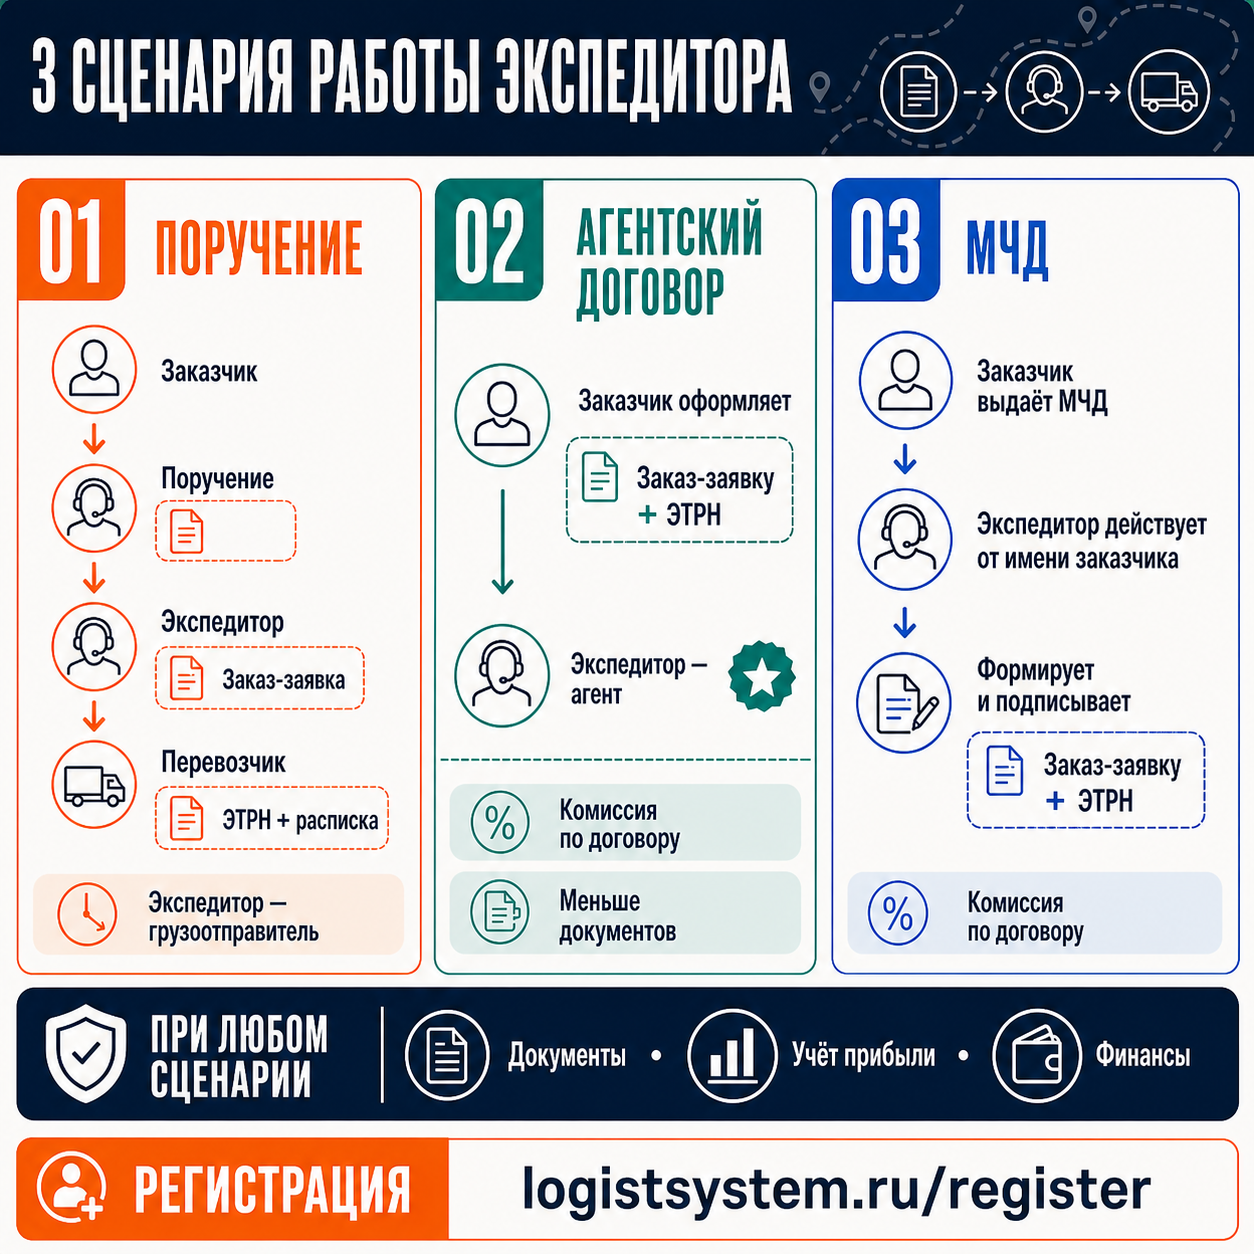
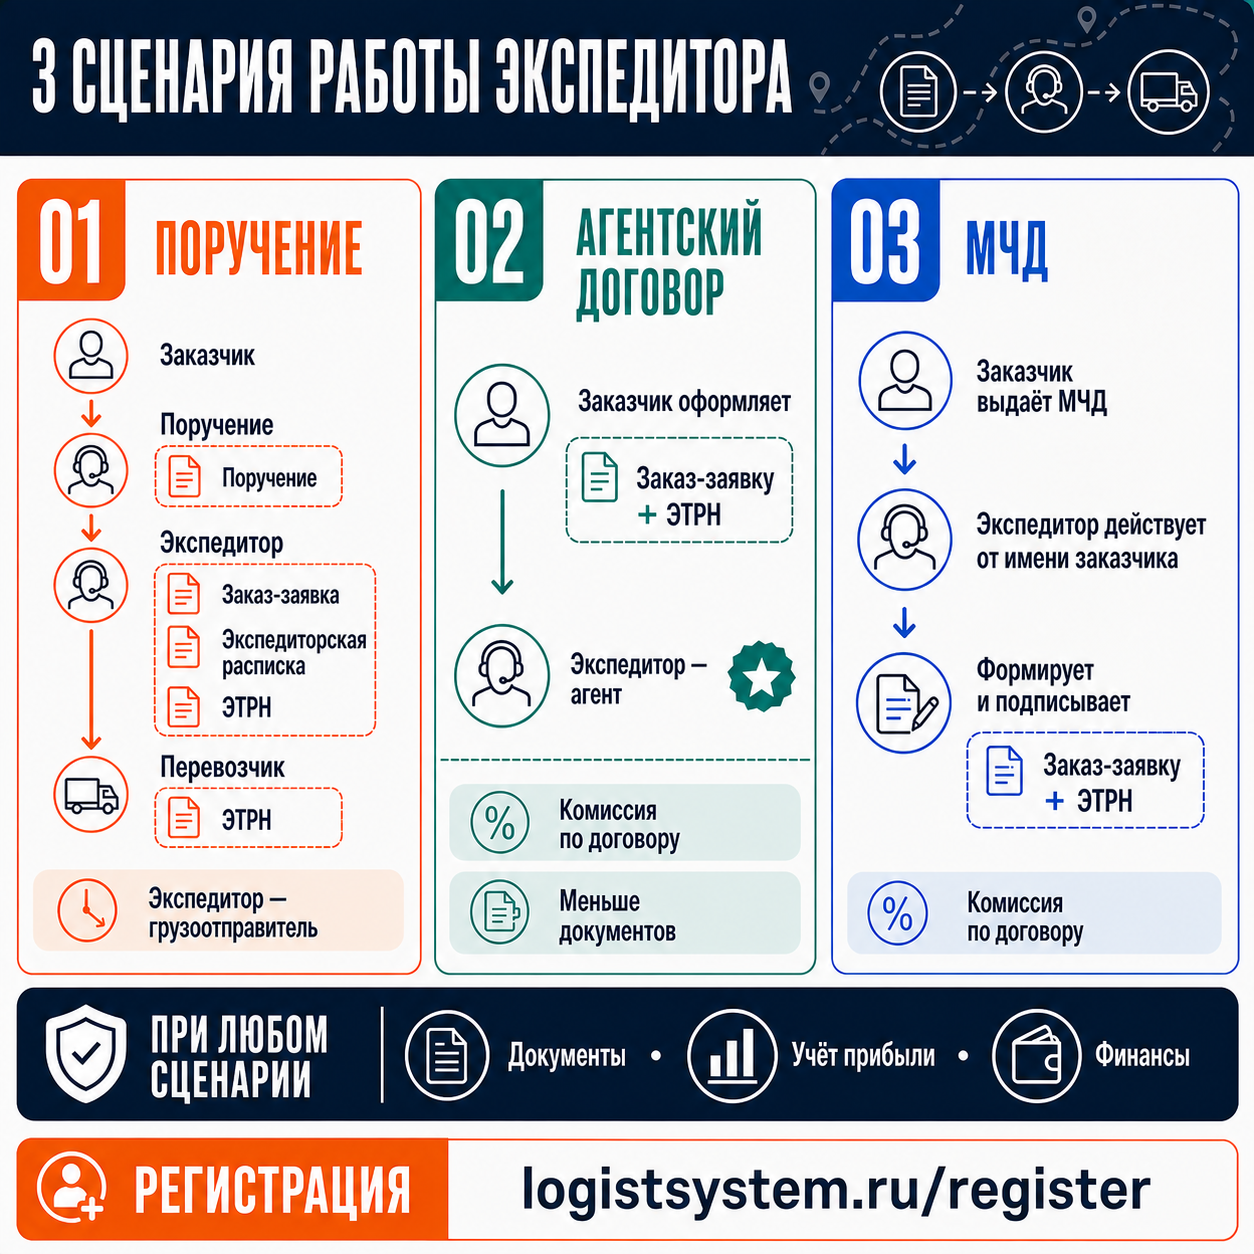
deploy: update

diff --git a/public/css/app/filament-admin.css b/public/css/app/filament-admin.css
@@ -62,10 +62,13 @@
 }
 
 /* Редактор блога: визуальная модель журнальной статьи. */
+.blog-article-editor.fi-fo-rich-editor .fi-fo-rich-editor-toolbar,
 .blog-article-editor .fi-fo-rich-editor-toolbar {
-    position: sticky;
+    position: sticky !important;
     top: 0;
-    z-index: 2;
+    z-index: 30;
+    background: #fff;
+    box-shadow: 0 6px 16px -14px rgb(15 23 42 / 55%);
 }
 
 .blog-article-editor .fi-fo-rich-editor-content {

diff --git a/resources/css/filament-admin.css b/resources/css/filament-admin.css
@@ -62,10 +62,13 @@
 }
 
 /* Редактор блога: визуальная модель журнальной статьи. */
+.blog-article-editor.fi-fo-rich-editor .fi-fo-rich-editor-toolbar,
 .blog-article-editor .fi-fo-rich-editor-toolbar {
-    position: sticky;
+    position: sticky !important;
     top: 0;
-    z-index: 2;
+    z-index: 30;
+    background: #fff;
+    box-shadow: 0 6px 16px -14px rgb(15 23 42 / 55%);
 }
 
 .blog-article-editor .fi-fo-rich-editor-content {

diff --git a/resources/css/landing.css b/resources/css/landing.css
@@ -2536,7 +2536,7 @@ body {
     margin: 0;
     width: 100%;
     min-width: 0;
-    grid-column: 1;
+    grid-column: 1 / -1;
     justify-self: stretch;
     border-radius: 18px;
     overflow: hidden;

diff --git a/app/Support/BlogBodyImages.php b/app/Support/BlogBodyImages.php
@@ -1,0 +1,107 @@
+<?php
+
+namespace App\Support;
+
+final class BlogBodyImages
+{
+    /**
+     * @return list<string>
+     */
+    public static function paths(?string $content): array
+    {
+        if (blank($content)) {
+            return [];
+        }
+
+        preg_match_all('/<img\b[^>]*>/i', $content, $matches);
+
+        return collect($matches[0] ?? [])
+            ->map(static::pathFromImageTag(...))
+            ->filter()
+            ->unique()
+            ->values()
+            ->all();
+    }
+
+    public static function renderResponsive(string $html): string
+    {
+        return preg_replace_callback('/<img\b[^>]*>/i', function (array $matches): string {
+            $imageTag = $matches[0];
+            $path = self::pathFromImageTag($imageTag);
+
+            if ($path === null) {
+                return $imageTag;
+            }
+
+            $image = ImageVariants::data($path);
+
+            if (! $image['avif_srcset'] && ! $image['webp_srcset']) {
+                return $imageTag;
+            }
+
+            $sizes = '(max-width: 860px) calc(100vw - 32px), 760px';
+            $sources = '';
+
+            if ($image['avif_srcset']) {
+                $sources .= '<source type="image/avif" srcset="'.self::escape($image['avif_srcset']).'" sizes="'.$sizes.'">';
+            }
+
+            if ($image['webp_srcset']) {
+                $sources .= '<source type="image/webp" srcset="'.self::escape($image['webp_srcset']).'" sizes="'.$sizes.'">';
+            }
+
+            return '<picture class="blog-post-body__picture">'.$sources.$imageTag.'</picture>';
+        }, $html) ?? $html;
+    }
+
+    private static function pathFromImageTag(string $imageTag): ?string
+    {
+        $path = self::attribute($imageTag, 'data-id');
+
+        if ($path === null) {
+            $source = self::attribute($imageTag, 'src');
+
+            if ($source === null) {
+                return null;
+            }
+
+            $urlPath = parse_url($source, PHP_URL_PATH);
+
+            if (! is_string($urlPath)) {
+                return null;
+            }
+
+            $path = str_starts_with($urlPath, '/storage/')
+                ? substr($urlPath, strlen('/storage/'))
+                : ltrim($urlPath, '/');
+        }
+
+        $path = str_replace('\\', '/', rawurldecode(trim($path)));
+
+        if (
+            ! str_starts_with($path, 'blog/body/')
+            || str_contains($path, '../')
+            || ! ImageVariants::isOptimizableOriginal($path)
+        ) {
+            return null;
+        }
+
+        return $path;
+    }
+
+    private static function attribute(string $imageTag, string $name): ?string
+    {
+        if (! preg_match('/\s'.preg_quote($name, '/').'\s*=\s*(["\'])(.*?)\1/is', $imageTag, $matches)) {
+            return null;
+        }
+
+        $value = html_entity_decode($matches[2], ENT_QUOTES | ENT_HTML5, 'UTF-8');
+
+        return $value !== '' ? $value : null;
+    }
+
+    private static function escape(string $value): string
+    {
+        return htmlspecialchars($value, ENT_QUOTES | ENT_SUBSTITUTE, 'UTF-8');
+    }
+}

diff --git a/app/Filament/Clusters/Landing/Resources/BlogPosts/BlogPostResource.php b/app/Filament/Clusters/Landing/Resources/BlogPosts/BlogPostResource.php
@@ -113,18 +113,19 @@ class BlogPostResource extends Resource
                         ->label('Подзаголовок')
                         ->rows(2)
                         ->maxLength(500)
+                        ->helperText('Выводится непосредственно под заголовком H1 на странице статьи.')
                         ->columnSpanFull(),
                     Textarea::make('excerpt')
                         ->label('Краткое описание')
                         ->rows(3)
                         ->maxLength(700)
-                        ->helperText('Показывается в карточках и используется как fallback для meta description.')
+                        ->helperText('Используется в карточках блога и как запасное meta description. Под заголовком статьи не выводится.')
                         ->columnSpanFull(),
                     RichEditor::make('body')
                         ->label('Текст статьи')
                         ->required()
                         ->plugins([FontSizeRichContentPlugin::make()])
-                        ->helperText('Газетная вёрстка: «Лид» — вводный абзац; H2 — раздел с линией; H3 — синий подзаголовок; «Цитата» — акцентная врезка; «Выделение» — предупреждение; «Таблица» — блок с цифрами; скрепка — изображение внутри статьи. Заголовок статьи уже выводится как H1, поэтому внутри текста обычно используйте H2–H6.')
+                        ->helperText('Газетная вёрстка: «Вводный текст» — первый вводный абзац статьи; H2 — раздел с линией; H3 — синий подзаголовок; «Цитата» — акцентная врезка; «Выделение» — предупреждение; «Таблица» — блок с цифрами; скрепка — изображение внутри статьи. Заголовок статьи уже выводится как H1, поэтому внутри текста обычно используйте H2–H6.')
                         ->toolbarButtons([
                             ['undo', 'redo'],
                             [

diff --git a/tests/Feature/ResponsiveImageTest.php b/tests/Feature/ResponsiveImageTest.php
@@ -4,6 +4,7 @@ namespace Tests\Feature;
 
 use App\Models\BlogPost;
 use App\Models\LandingSection;
+use App\Support\BlogBodyImages;
 use App\Support\ImageVariants;
 use Illuminate\Foundation\Testing\RefreshDatabase;
 use Illuminate\Support\Facades\Storage;
@@ -90,6 +91,44 @@ class ResponsiveImageTest extends TestCase
             ->assertSee('type="image/webp"', false)
             ->assertSee('/storage/blog/cards/card--640w.webp 640w', false)
             ->assertSee('src="/storage/blog/cards/card.webp"', false);
+    }
+
+    public function test_article_body_images_prefer_responsive_avif_and_webp(): void
+    {
+        Storage::disk('public')->put('blog/body/diagram.png', 'original');
+        Storage::disk('public')->put('blog/body/diagram--480w.avif', 'avif');
+        Storage::disk('public')->put('blog/body/diagram--480w.webp', 'webp');
+        Storage::disk('public')->put('blog/body/diagram--960w.avif', 'avif-large');
+
+        $post = BlogPost::query()->create([
+            'title' => 'Responsive article image',
+            'slug' => 'responsive-article-image',
+            'body' => '<p><img data-id="blog/body/diagram.png" alt="Article diagram"></p>',
+            'is_published' => true,
+            'published_at' => now()->subDay(),
+        ]);
+
+        $this->assertSame(['blog/body/diagram.png'], BlogBodyImages::paths($post->body));
+
+        $this->get($post->getUrl())
+            ->assertOk()
+            ->assertSee('<picture class="blog-post-body__picture">', false)
+            ->assertSee('type="image/avif"', false)
+            ->assertSee('/storage/blog/body/diagram--480w.avif 480w', false)
+            ->assertSee('/storage/blog/body/diagram--960w.avif 960w', false)
+            ->assertSee('type="image/webp"', false)
+            ->assertSee('/storage/blog/body/diagram--480w.webp 480w', false)
+            ->assertSee('src="/storage/blog/body/diagram.png"', false);
+    }
+
+    public function test_article_body_image_paths_are_restricted_to_the_body_directory(): void
+    {
+        $content = '<img data-id="blog/body/first.jpg"><img src="/storage/blog/body/second.png?version=2"><img data-id="blog/covers/not-body.jpg"><img src="https://example.com/external.jpg">';
+
+        $this->assertSame([
+            'blog/body/first.jpg',
+            'blog/body/second.png',
+        ], BlogBodyImages::paths($content));
     }
 
     public function test_committed_blog_images_can_use_public_avif_variants(): void

diff --git a/app/Services/BlogImageOptimizer.php b/app/Services/BlogImageOptimizer.php
@@ -3,6 +3,7 @@
 namespace App\Services;
 
 use App\Models\BlogPost;
+use App\Support\BlogBodyImages;
 use App\Support\LandingMedia;
 
 final class BlogImageOptimizer
@@ -27,6 +28,13 @@ final class BlogImageOptimizer
             ],
         ];
 
+        foreach (BlogBodyImages::paths($post->body) as $path) {
+            $images[] = [
+                'path' => $path,
+                'widths' => $this->configuredWidths('blog_body', [480, 960, 1440]),
+            ];
+        }
+
         return collect($images)
             ->filter(fn (array $image): bool => $image['path'] !== null)
             ->unique('path')
@@ -44,9 +52,15 @@ final class BlogImageOptimizer
      */
     public function widthsForPath(string $path): array
     {
-        return str_starts_with($path, 'blog/cards/')
-            ? $this->configuredWidths('blog_card', [640, 1200])
-            : $this->configuredWidths('blog_cover', [640, 1280]);
+        if (str_starts_with($path, 'blog/cards/')) {
+            return $this->configuredWidths('blog_card', [640, 1200]);
+        }
+
+        if (str_starts_with($path, 'blog/body/')) {
+            return $this->configuredWidths('blog_body', [480, 960, 1440]);
+        }
+
+        return $this->configuredWidths('blog_cover', [640, 1280]);
     }
 
     /**

diff --git a/tests/Feature/BlogTest.php b/tests/Feature/BlogTest.php
@@ -292,6 +292,30 @@ class BlogTest extends TestCase
         $response->assertSee('/blog/seo-post');
     }
 
+    public function test_blog_post_hero_displays_only_subtitle_not_card_excerpt(): void
+    {
+        $post = BlogPost::query()->create([
+            'title' => 'Article heading',
+            'slug' => 'article-subtitle',
+            'subtitle' => 'Article subtitle',
+            'excerpt' => 'Card summary only',
+            'body' => 'Article body',
+            'is_published' => true,
+            'published_at' => now()->subDay(),
+        ]);
+
+        $this->get($post->getUrl())
+            ->assertOk()
+            ->assertSee('<p>Article subtitle</p>', false)
+            ->assertDontSee('<p>Card summary only</p>', false);
+
+        $post->update(['subtitle' => null]);
+
+        $this->get($post->getUrl())
+            ->assertOk()
+            ->assertDontSee('<p>Card summary only</p>', false);
+    }
+
     public function test_blog_post_cover_shows_logo_when_enabled(): void
     {
         $post = BlogPost::query()->create([

diff --git a/resources/views/blog/show.blade.php b/resources/views/blog/show.blade.php
@@ -65,8 +65,6 @@
                         <h1>{{ $post->title }}</h1>
                         @if ($post->subtitle)
                             <p>{{ $post->subtitle }}</p>
-                        @elseif ($post->displayExcerpt())
-                            <p>{{ $post->displayExcerpt() }}</p>
                         @endif
                     </div>
                 </header>
@@ -89,7 +87,7 @@
                                 height="675"
                                 loading="eager"
                                 fetchpriority="high"
-                                sizes="(max-width: 860px) calc(100vw - 32px), 75vw"
+                                sizes="(max-width: 1240px) calc(100vw - 32px), 1200px"
                                 picture-class="blog-post-cover__picture"
                             />
                         </figure>

diff --git a/app/Models/BlogPost.php b/app/Models/BlogPost.php
@@ -3,6 +3,7 @@
 namespace App\Models;
 
 use App\Support\LandingMedia;
+use App\Support\BlogBodyImages;
 use App\Support\RichContent\FontSizeRichContentPlugin;
 use Filament\Forms\Components\RichEditor\RichContentRenderer;
 use Illuminate\Database\Eloquent\Builder;
@@ -187,11 +188,13 @@ class BlogPost extends Model
 
     public function renderBody(): string
     {
-        return RichContentRenderer::make($this->body ?? '')
+        $html = RichContentRenderer::make($this->body ?? '')
             ->plugins([FontSizeRichContentPlugin::make()])
             ->fileAttachmentsDisk('public')
             ->fileAttachmentsVisibility('public')
             ->toHtml();
+
+        return BlogBodyImages::renderResponsive($html);
     }
 
     public function coverImageUrl(): ?string

diff --git a/app/Support/LandingMedia.php b/app/Support/LandingMedia.php
@@ -2,6 +2,7 @@
 
 namespace App\Support;
 
+use Illuminate\Filesystem\FilesystemAdapter;
 use Illuminate\Support\Facades\Storage;
 
 final class LandingMedia
@@ -26,8 +27,11 @@ final class LandingMedia
             return asset($path);
         }
 
-        if (Storage::disk('public')->exists($path)) {
-            $url = Storage::disk('public')->url($path);
+        /** @var FilesystemAdapter $disk */
+        $disk = Storage::disk('public');
+
+        if ($disk->exists($path)) {
+            $url = $disk->url($path);
             $relative = parse_url($url, PHP_URL_PATH);
 
             if (is_string($relative) && $relative !== '' && str_starts_with($relative, '/storage/')) {

diff --git a/config/image-optimizer.php b/config/image-optimizer.php
@@ -12,5 +12,6 @@ return [
         'mobile' => [320, 640],
         'blog_card' => [640, 1200],
         'blog_cover' => [640, 1280],
+        'blog_body' => [480, 960, 1440],
     ],
 ];
